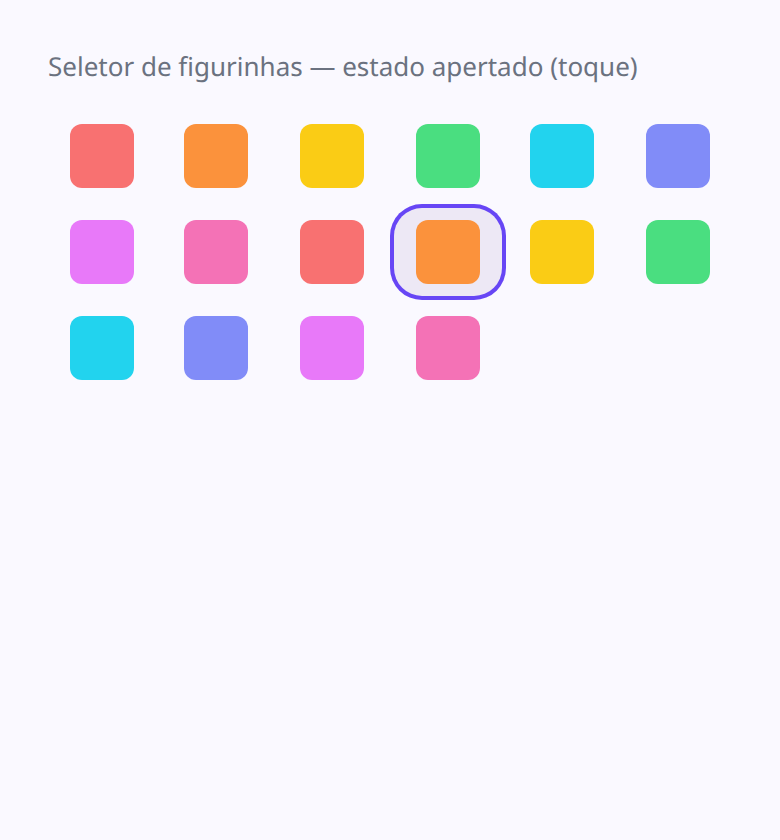
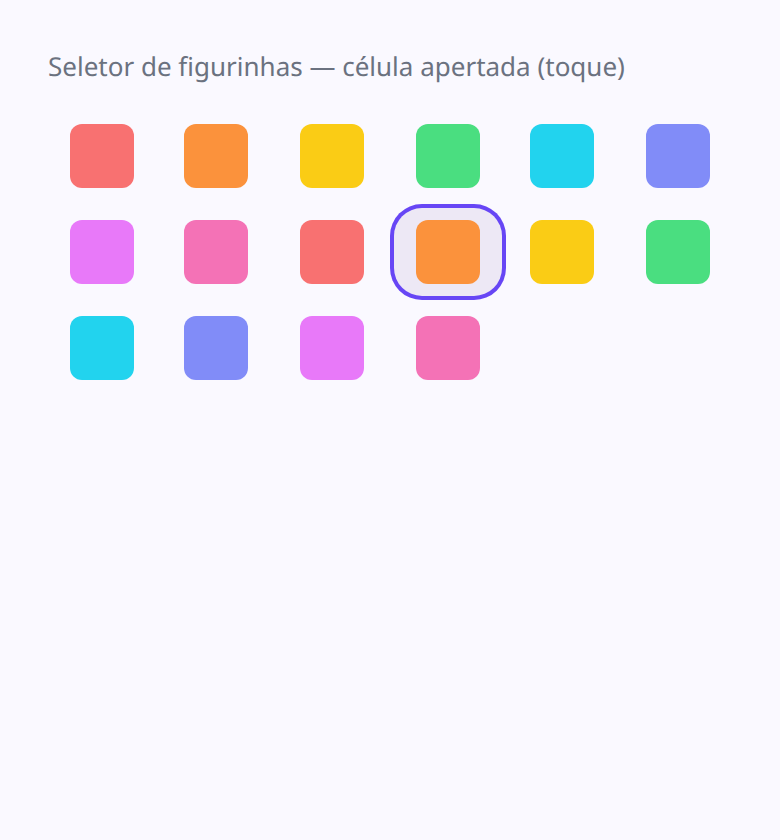
docs(figurinhas): prova do toque também a 1280 px, com recorte ampliado da célula

Changed region(s): [[0.4308, 0.0619, 0.8308, 0.0929]]

diff --git a/docs/proof/557/README.md b/docs/proof/557/README.md
@@ -6,13 +6,39 @@ pequena a pessoa não sabia se acertou a figurinha antes de o texto mudar.
 A célula agora responde também no estado apertado (`active`): fundo `surface-2` e anel de 2px na cor
 `ring`, os mesmos tokens do foco do teclado.
 
-Medido no app real (Vite em 5174) a 390 px, com o `:active` forçado pelo CDP (`CSS.forcePseudoState`)
-— screenshot comum não captura esse estado.
+Medido no app real (Vite em 5174, com o CSS compilado servido pela própria página) a 390 px e a
+1280 px, com o `:active` forçado pelo CDP (`CSS.forcePseudoState`) — screenshot comum não captura
+esse estado.
 
-|                           | Antes                          | Depois                             |
-| ------------------------- | ------------------------------ | ---------------------------------- |
-| Célula a 390 px, apertada | idêntica à solta — sem retorno | fundo `surface-2` + anel `ring`    |
-| Tamanho da célula         | 44×44                          | 44×44 (o anel não desloca a grade) |
+A célula apertada é a `#fig-9`, a **4ª da segunda linha** (laranja): nas capturas de "depois" é a
+única com fundo mais claro e anel roxo.
 
-- `antes-390.png` — nenhum retorno no clique.
-- `depois-390.png` — a célula apertada (a 4ª da segunda linha) fica destacada.
+| Largura | Antes — célula apertada        | Depois — célula apertada        |
+| ------- | ------------------------------ | ------------------------------- |
+| 390     | idêntica à solta — sem retorno | fundo `surface-2` + anel `ring` |
+| 1280    | idêntica à solta — sem retorno | fundo `surface-2` + anel `ring` |
+
+Tamanho da célula antes e depois: 53,66×44 a 390 px e 49×44 a 1280 px — o anel não desloca a grade.
+
+Capturas de página inteira:
+
+- `antes-390.png` / `depois-390.png` — telefone.
+- `antes-1280.png` / `depois-1280.png` — desktop.
+
+Recortes com zoom 3× na célula apertada (é aqui que a diferença se vê de perto):
+
+- `antes-390-zoom.png` / `depois-390-zoom.png` — telefone.
+- `antes-1280-zoom.png` / `depois-1280-zoom.png` — desktop.
+
+Como reproduzir (`node shot-557.mjs`, com o app em `http://127.0.0.1:5174` e o Chrome headless
+aberto em `--remote-debugging-port=9222`):
+
+1. a página pega o CSS compilado do próprio app (`/entrar`), então as cores são as do tema real;
+2. monta uma grade de 16 células com as classes do componente e um desenho em SVG por célula;
+3. `Emulation.setDeviceMetricsOverride` fixa 390 e depois 1280;
+4. `CSS.forcePseudoState` força `:active` na `#fig-9`;
+5. `DOM.getBoxModel` mede a célula antes/depois e `Page.captureScreenshot` salva a página e o recorte
+   com `scale: 3`.
+
+O teste de componente (`emote-picker-dialog.test.tsx`) só garante que as classes existem; a prova de
+que o toque se vê na tela é esta captura.
